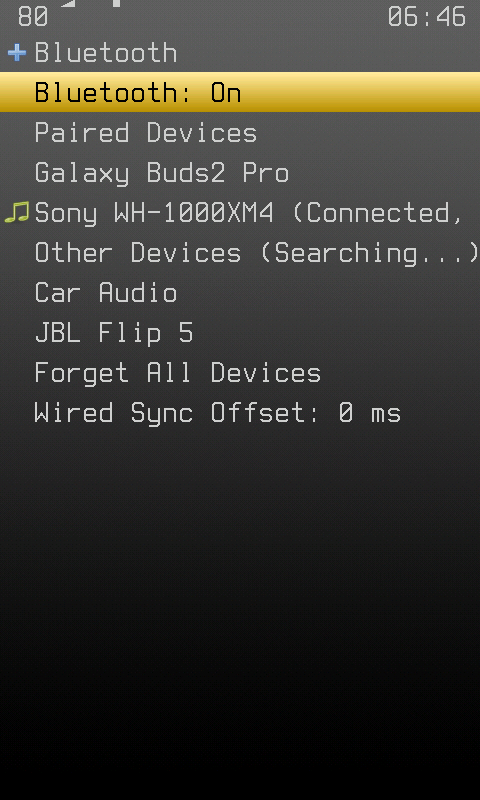
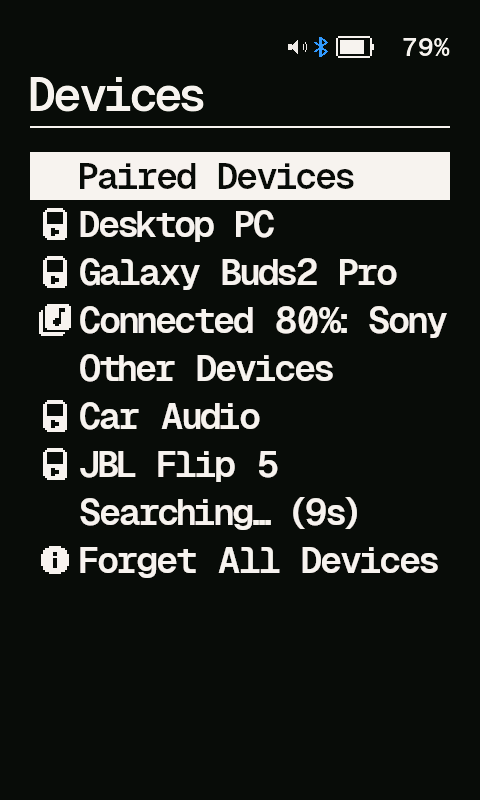
fix(bluetooth): find and pair again, state before the name
Stopping HiBy's brcm_patchram_plus (b082a1215e) was never tried with a
headset, and since it went in nothing is found or paired: it is left
running at the lowest priority instead, which keeps the UI smooth and
gives up the battery gain.

The search pauses while a device is paired or connected, as a phone's
does: one radio pages badly while it is also searching.

A row said what its device was doing after the name, where a long name
scrolled it out of sight. It comes first now, and a new device says
Pairing... before Connecting....

Refs #153, #145

Claude-Session: https://claude.ai/code/session_017kqVyKFkBABwGwDbxbsQY3

diff --git a/apps/hiby_bluetooth.c b/apps/hiby_bluetooth.c
@@ -36,6 +36,7 @@
 #include <stdlib.h>
 #include <string.h>
 #include <strings.h>
+#include <sys/resource.h>
 #include <sys/syscall.h>
 #include <sys/wait.h>
 #include <unistd.h>
@@ -148,6 +149,7 @@ static struct
     int ncodecs;
     int rate;
     char busy[18];          /* being paired or connected */
+    bool pairing;           /* busy is being paired */
     char last[18];          /* the last headset that played */
     int msg;                /* lang id the screen shows once, 0 if none */
     char passkey[8];        /* waiting for the user to confirm it */
@@ -1003,6 +1005,7 @@ static void bt_connect(const char *mac, bool quiet)
     snprintf(bt.busy, sizeof(bt.busy), "%s", mac);
     d = bt_find(bt.dev, bt.count, mac);
     paired = !d || d->paired;   /* the last device is not listed at boot */
+    bt.pairing = !paired;
     snprintf(link, sizeof(link), "%s", bt.link);
     pthread_mutex_unlock(&bt_mtx);
     bt_changed();
@@ -1014,6 +1017,8 @@ static void bt_connect(const char *mac, bool quiet)
     }
     else
     {
+        bt.pairing = false;
+        bt_changed();
         sender = bt_is_sender(mac);
         /* one headset at a time; a sender plays beside it */
         if (!sender && link[0] && strcmp(link, mac))
@@ -1130,11 +1135,20 @@ static void bt_power_on(void)
         fclose(fp);
     bt_power = BT_ON;
     bt_changed();
-    /* brcm_patchram_plus has nothing left to do but hold the serial line
-     * open, and HiBy's build spins doing it: half the CPU, for as long as
-     * Bluetooth is up. Stopped, it still holds the line. */
-    bt_cmd("for p in $(pidof brcm_patchram_plus); do "
-           "grep -q '^State:.R' /proc/$p/status && kill -STOP $p; done", NULL);
+    /* HiBy's brcm_patchram_plus spins for as long as Bluetooth is up, half
+     * the CPU. Stopped (as it was for a while) the radio found and paired
+     * nothing, so it runs, but only when nothing else wants the CPU. */
+#ifndef SIMULATOR
+    if ((fp = popen("pidof brcm_patchram_plus", "r")))
+    {
+        while (fscanf(fp, "%d", &i) == 1)
+        {
+            kill(i, SIGCONT);
+            setpriority(PRIO_PROCESS, i, 19);
+        }
+        pclose(fp);
+    }
+#endif
     if (bt_rx_on)
         bt_restart_bluealsa(true);
     bt_reconnect();
@@ -1335,7 +1349,19 @@ static void *bt_worker(void *arg)
         pthread_mutex_unlock(&bt_mtx);
         if (job != BT_JOB_NONE)
         {
+            /* the one radio pages a headset badly while it is also
+               searching: a phone stops its search to pair, too */
+            if (job == BT_JOB_CONNECT && scan)
+            {
+                fputs("scan off\n", scan);
+                fflush(scan);
+            }
             bt_run_job(job, mac, codec);
+            if (job == BT_JOB_CONNECT && scan)
+            {
+                fputs("scan on\n", scan);
+                fflush(scan);
+            }
             next_refresh = 0;
         }
 
@@ -1866,7 +1892,7 @@ static struct
     char link[18], rx[18], busy[18], codec[BT_CODEC_LEN];
     char codecs[BT_MAX_CODECS][BT_CODEC_LEN];
     int ncodecs, rate;
-    bool scanning;
+    bool scanning, pairing;
     long scan_since;
     int gen;
 } snap;
@@ -1888,6 +1914,7 @@ static void bt_snapshot(void)
     snap.ncodecs = bt.ncodecs;
     snap.rate = bt.rate;
     snap.scanning = bt.scanning;
+    snap.pairing = bt.pairing;
     snap.scan_since = bt.scan_since;
     msg = bt.msg;
     bt.msg = 0;
@@ -1907,14 +1934,16 @@ static void bt_snapshot(void)
 
 static const char *bt_device_state(const struct bt_device *d, char *buf, size_t len)
 {
+    /* the state first: after a long name it scrolled out of sight */
     if (!strcmp(d->mac, snap.busy))
-        snprintf(buf, len, "%s (%s)", d->name, S(LANG_BT_CONNECTING));
+        snprintf(buf, len, "%s %s", S(snap.pairing ? LANG_BT_PAIRING :
+                                      LANG_BT_CONNECTING), d->name);
     else if (!strcmp(d->mac, snap.link) && d->battery >= 0)
-        snprintf(buf, len, "%s (%s, %d%%)", d->name, S(LANG_BT_CONNECTED), d->battery);
+        snprintf(buf, len, "%s %d%%: %s", S(LANG_BT_CONNECTED), d->battery, d->name);
     else if (!strcmp(d->mac, snap.link))
-        snprintf(buf, len, "%s (%s)", d->name, S(LANG_BT_CONNECTED));
+        snprintf(buf, len, "%s: %s", S(LANG_BT_CONNECTED), d->name);
     else if (!strcmp(d->mac, snap.rx))
-        snprintf(buf, len, "%s (%s)", d->name, S(LANG_BT_RECEIVING));
+        snprintf(buf, len, "%s: %s", S(LANG_BT_RECEIVING), d->name);
     else
         snprintf(buf, len, "%s", d->name);
     return buf;
@@ -2155,7 +2184,8 @@ static void bt_device_page(const char *mac)
         simplelist_info_init(&info, title, 0, NULL);
         simplelist_reset_lines();
         simplelist_addline("%s: %s", S(LANG_BT_STATUS),
-                           S(busy ? LANG_BT_CONNECTING :
+                           S(busy && snap.pairing ? LANG_BT_PAIRING :
+                             busy ? LANG_BT_CONNECTING :
                              linked ? LANG_BT_CONNECTED : LANG_BT_DISCONNECTED));
         kind[n++] = DET_STATUS;
         if (headset)

diff --git a/docs/mods/bluetooth-hiby-x1600.md b/docs/mods/bluetooth-hiby-x1600.md
@@ -4,12 +4,12 @@ This build integrates [bidhata's patches](https://github.com/bidhata/hiby-r1-roc
 
 ## Using it
 
-Everything is under **Main Menu → Bluetooth**, laid out like a phone's:
+Everything is under **Settings → Bluetooth**, laid out like a phone's (Settings → Controls → Main Menu Layout puts it on the main menu as well):
 
 *   **Bluetooth: On / Off** - select to switch. Turning it on reconnects the last headset that played.
 *   **Devices** - a page of its own, with what is connected after the name. On it:
-*   **Paired Devices** - select one to connect. A connected one shows `(Connected, 80%)` when the headset reports its battery; select it, or long-press any paired device, for its page.
-*   **Other Devices** - found while the screen is open (`Searching...`). Select one to pair and connect. A device that shows a code asks you to confirm it; one that wants a PIN gets `0000`.
+*   **Paired Devices** - select one to connect. What a device is doing comes before its name, so a long name cannot push it off the row: `Pairing...`, `Connecting...`, `Connected 80%:` when the headset reports its battery. Select a connected one, or long-press any paired device, for its page.
+*   **Other Devices** - found while the screen is open (`Searching...`). Select one to pair and connect; the search pauses while it does. A device that shows a code asks you to confirm it; one that wants a PIN gets `0000`.
 *   **Forget All Devices** - at the bottom of the Devices page.
 *   **Wired Sync Offset**, **Wired Level**, and **Music Ducking** while receiving - on the main page.
 
